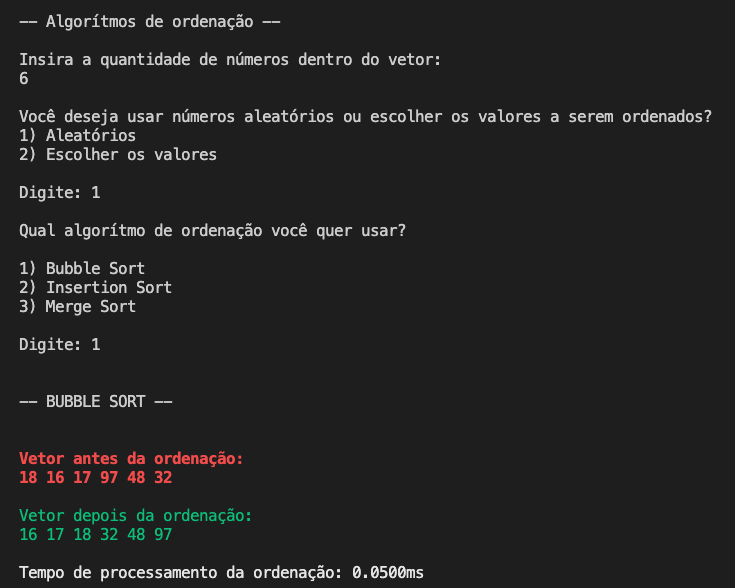
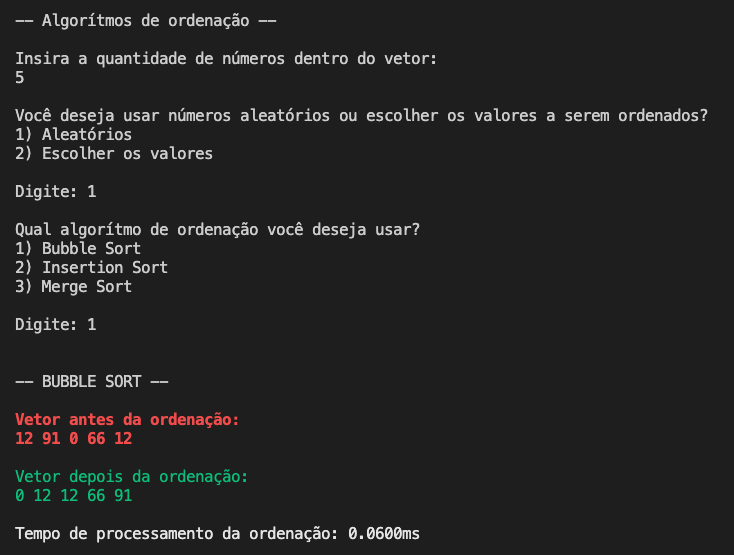
correção

diff --git a/main.c b/main.c
@@ -34,17 +34,17 @@ int main(){
         exit(1);
     }
     
-    printf("\nQual algorítmo de ordenação você quer usar?\n\n1) Bubble Sort\n2) Insertion Sort\n3) Merge Sort\n\nDigite: ");
+    printf("\nQual algorítmo de ordenação você deseja usar?\n1) Bubble Sort\n2) Insertion Sort\n3) Merge Sort\n\nDigite: ");
     scanf("%d", &escolha);
 
     if(escolha == 1){
-        printf("\n\n-- BUBBLE SORT --\n\n");
+        printf("\n\n-- BUBBLE SORT --\n");
     } else if(escolha == 2){
-        printf("\n\n-- INSERTION SORT --\n\n");
+        printf("\n\n-- INSERTION SORT --\n");
     } else if(escolha == 3){
-        printf("\n\n-- MERGE SORT --\n\n");
+        printf("\n\n-- MERGE SORT --\n");
     } else {
-        printf("Erro! Opção Inválida!\n");
+        printf("\nErro! Opção Inválida!\n");
         exit(1);
     };
 
